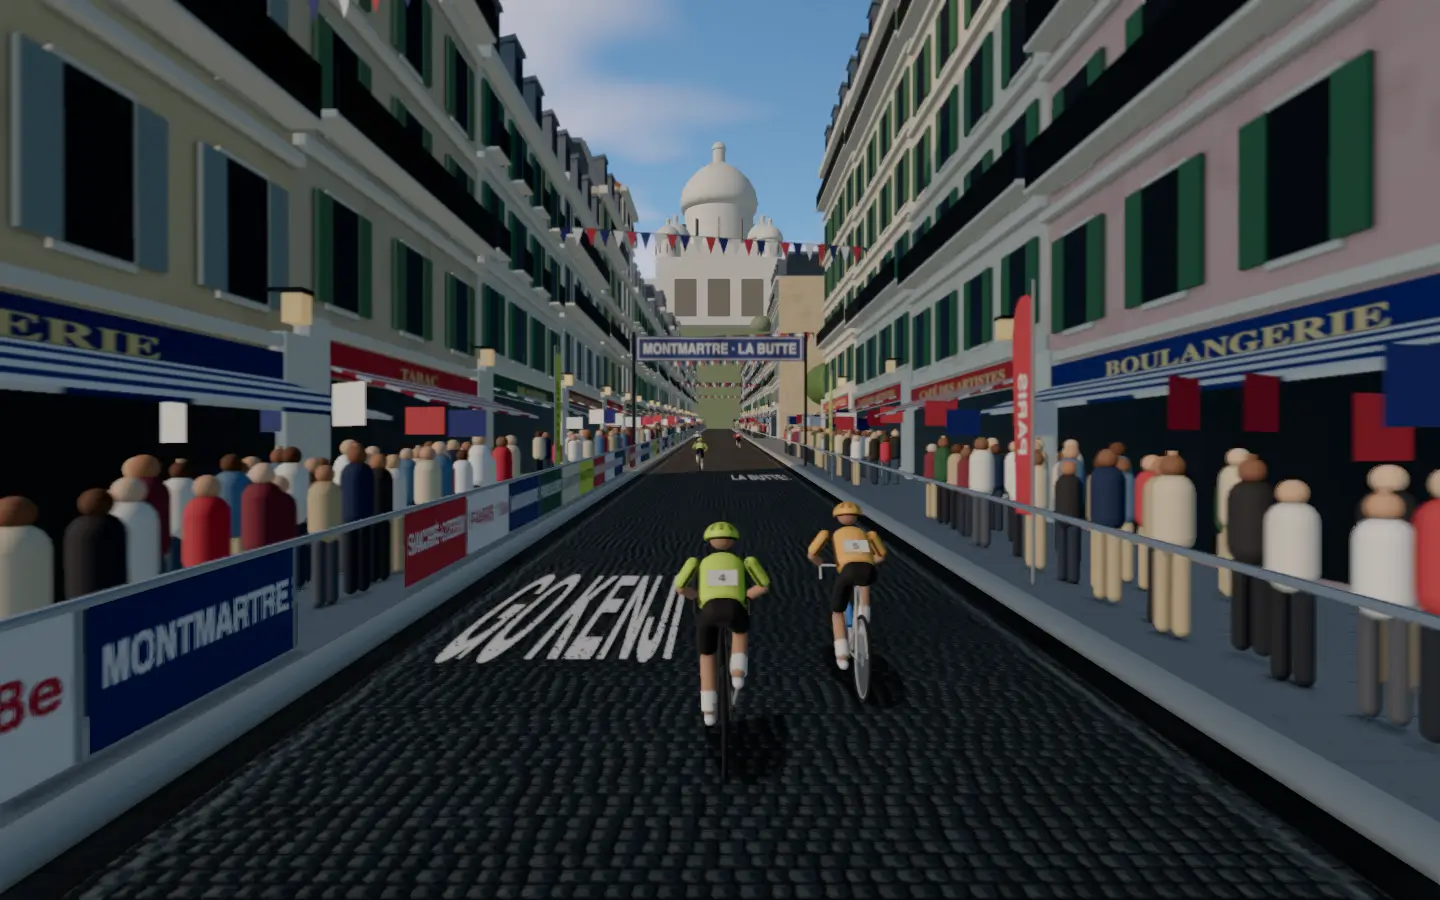
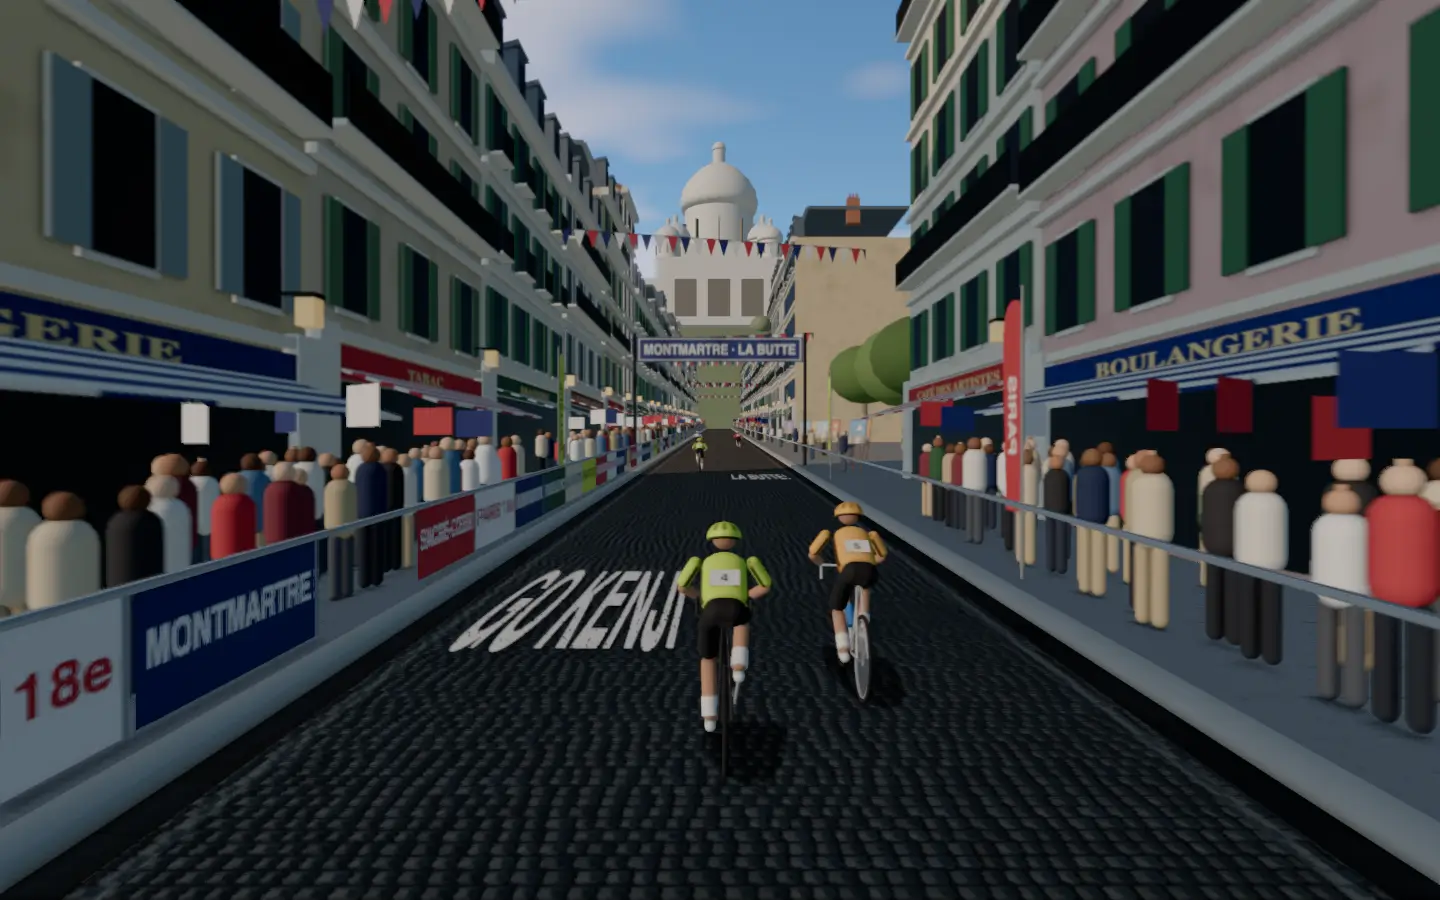
Bring the Place du Tertre and its painters into Montmartre's view

diff --git a/frontend/projects/wattzup/src/app/core/world-montmartre.ts b/frontend/projects/wattzup/src/app/core/world-montmartre.ts
@@ -59,8 +59,8 @@ const CROWD_FAR = 6.4;
 /** The house fronts stand this far off the road's centre. */
 const FRONT = 7.2;
 /** The Place du Tertre opens on the right between these offsets, its far side set back. */
-const SQUARE_FROM = 150;
-const SQUARE_TO = 186;
+const SQUARE_FROM = 126;
+const SQUARE_TO = 168;
 const SQUARE_BACK = 30;
 /** The street ends this far ahead, at the foot of the butte with Sacré-Cœur on its crown. */
 const AHEAD = 250;
@@ -206,7 +206,8 @@ export class MontmartreStreet implements SceneStreet {
     private readonly disposables: { dispose(): void }[],
   ) {
     this.ribbons = new Ribbons(this.group, disposables);
-    const square = (offset: number) => offset > SQUARE_FROM - 2 && offset < SQUARE_TO + 2;
+    // The fans stand back where the square opens, and just short of it, so the painters show.
+    const square = (offset: number) => offset > SQUARE_FROM - 14 && offset < SQUARE_TO + 2;
     this.crowd = new Crowd(this.group, disposables, {
       loop: LOOP,
       near: CROWD_NEAR,
@@ -465,7 +466,7 @@ export class MontmartreStreet implements SceneStreet {
     table.translate(0, 0.75, 0);
     const leg = new BoxGeometry(0.05, 1.7, 0.05);
     leg.translate(0, 0.85, 0);
-    const canvas = new BoxGeometry(0.04, 0.8, 1.0);
+    const canvas = new BoxGeometry(0.05, 1.1, 1.4);
     this.disposables.push(trunk, crown, umbrella, pole, table, leg, canvas);
     const bark = this.material({ map: this.track(barkTexture()), roughness: 1 });
     const leaves = ['#5a7a3a', '#6a8a42', '#4a6a32'].map((c) =>
@@ -510,9 +511,9 @@ export class MontmartreStreet implements SceneStreet {
         terrace.add(chair);
       }
     }
-    // The easels near the street, canvases turned to it.
+    // The painters' easels along the square's front on the pavement, canvases turned to the street.
     for (let k = 0; k < 7; k++) {
-      const x = 8.6 + (k % 3) * 1.6 + random();
+      const x = 5.4 + (k % 2) * 1.3 + random() * 0.3;
       const zLocal = -2 - k * ((depth - 6) / 7);
       const turn = 0.4 + (random() - 0.5) * 0.3;
       const easel = new Group();
@@ -528,7 +529,7 @@ export class MontmartreStreet implements SceneStreet {
         easel.add(l);
       }
       const c = new Mesh(canvas, paintings[k]!);
-      c.position.set(0.3, 1.45, 0);
+      c.position.set(0.3, 1.7, 0);
       c.rotation.z = -0.12;
       easel.add(c);
       // The canvas turned to the street and a little toward the rider coming up it.

diff --git a/docs/detailed-designs/world-ride/draw-class-scene/README.md b/docs/detailed-designs/world-ride/draw-class-scene/README.md
@@ -375,8 +375,8 @@ None.
 - **Montmartre (`core/world-montmartre.ts`).** For `montmartre`, Paris cobbles winding up the butte on a golden afternoon, closed for the ride:
   - Old Town's cobbles (the renderer's cobbled worlds), granite kerbs and grey pavements to the house fronts, race barriers hung with the ride's banners (MONTMARTRE, PARIS 18e, SACRÉ-CŒUR, WATTZUP, LA BUTTE, RUE LEPIC), the kit's feather flags every 18 m along both, cloth banners across the street (MONTMARTRE · LA BUTTE, SACRÉ-CŒUR · 500 m), tricolour pennants strung across between the upper floors every 24 m, and names chalked on the cobbles every 22 m;
   - houses shoulder to shoulder either side, 7.2 m off the road's centre, built from fourteen looks and merged by material: lime-rendered fronts in cream, ivory, pale ochre, the pink of La Maison Rose and pale grey, four to six floors with string courses and a cornice, tall French windows with green, grey or blue shutters folded back, wrought-iron balconies along the second and top floors or at single windows, a café on the ground floor (CAFÉ DES ARTISTES, LE CONSULAT, BOULANGERIE, CRÊPERIE and more) with its name in gold over the window and a striped awning over the pavement, a wall lantern, and a zinc mansard with dormers or a pitched roof of red tiles, chimney stacks with their pots on the party walls;
-  - fans on both pavements behind the barriers (the shared crowd), in gaps every 60 m;
-  - halfway up, the Place du Tertre opening on the right, its far houses 30 m back across it: plane trees in two rows, red café umbrellas over tables and white chairs, and seven painters (the kit's figures) at their easels by the street, their canvases of rooftops and domes turned to it;
+  - fans on both pavements behind the barriers (the shared crowd), in gaps every 60 m, standing back on the right where the square opens and for 14 m short of it so the painters show;
+  - the Place du Tertre opening on the right 33 m ahead in the opening view, its far houses 30 m back across it: plane trees in two rows, red café umbrellas over tables and white chairs, and along its front on the pavement seven painters (the kit's figures) at their easels, their canvases of rooftops and domes, 1.4 m wide, turned to the street;
   - 250 m ahead, where the street ends, rooftops at the foot of the butte, the green hill with its trees and the white stairs climbing its face, and on its crown Sacré-Cœur in white travertine, drawn twice life size so it reads from the street: the portico of three arches with a cupola either side, the nave and transepts, the tall drum with its windows and the ogive dome with its lantern, four smaller domes round it and the campanile behind, all hazed by hand. Everything along the street is hidden past its end.
 
   `lay`, `place` and `setTime` recycle it along a 500 m loop.

diff --git a/docs/class-worlds.md b/docs/class-worlds.md
@@ -37,7 +37,7 @@ Every class in `frontend/public/classes.json`, with its World Ride scene. Render
 | 31 | Elevate Your Climbing Power | Alpe d'Huez | 80% | Twenty-one numbered hairpins stack up the mountainside above Bourg-d'Oisans on a blazing July afternoon, the tarmac covered in painted names and fans and camper vans packed onto every bend under the snowy peaks of the Grandes Rousses. The two-minute warm-up rolls out of the valley, each one-minute attack kicks round a hairpin through the orange roar of Dutch Corner by the church of Huez, and the two-minute blocks grind up the steep ramps toward the ski station at the top. |
 | 32 | High Power Tempo With Short Sprints | Route 66 Desert | 72% | Arizona's open highway, red mesas and chrome diners; hold tempo, then sprint for each roadside sign. |
 | 33 | Spicy Maximum Minute Efforts | Día de Muertos Parade (concept) |  | Marigolds, sugar skulls and giant skeletons along Mexico City's Paseo de la Reforma. |
-| 34 | Short, Sharp & Hard Efforts | Montmartre | 72% | Paris cobbles wind up the butte of Montmartre on a golden afternoon, between cream and pink houses with green shutters and café awnings, past the painters at their easels in the Place du Tertre, toward the white domes of Sacré-Cœur on the hilltop. The two-minute warm-up rolls over the cobbles of the lower lanes, the thirty-second kicks punch up the steep ramps past the cafés and painters, and the two- and three-minute blocks climb the winding streets to the basilica. |
+| 34 | Short, Sharp & Hard Efforts | Montmartre | 75% | Paris cobbles wind up the butte of Montmartre on a golden afternoon, between cream and pink houses with green shutters and café awnings, past the painters at their easels in the Place du Tertre, toward the white domes of Sacré-Cœur on the hilltop. The two-minute warm-up rolls over the cobbles of the lower lanes, the thirty-second kicks punch up the steep ramps past the cafés and painters, and the two- and three-minute blocks climb the winding streets to the basilica. |
 | 35 | Beginner Training Session | Amsterdam Canals | 74% | Flat canal-side streets, humpback bridges and houseboats among friendly commuters. |
 | 36 | Sprint Sprint Sprint | San Fermín, Pamplona (concept) |  | Red scarves and white shirts fill old Pamplona; sprint the bull-run streets at festival dawn. |
 | 37 | Team Time Trial | Bonneville Salt Flats (concept) |  | An endless white plain; ride a tight paceline toward mirage mountains. |
